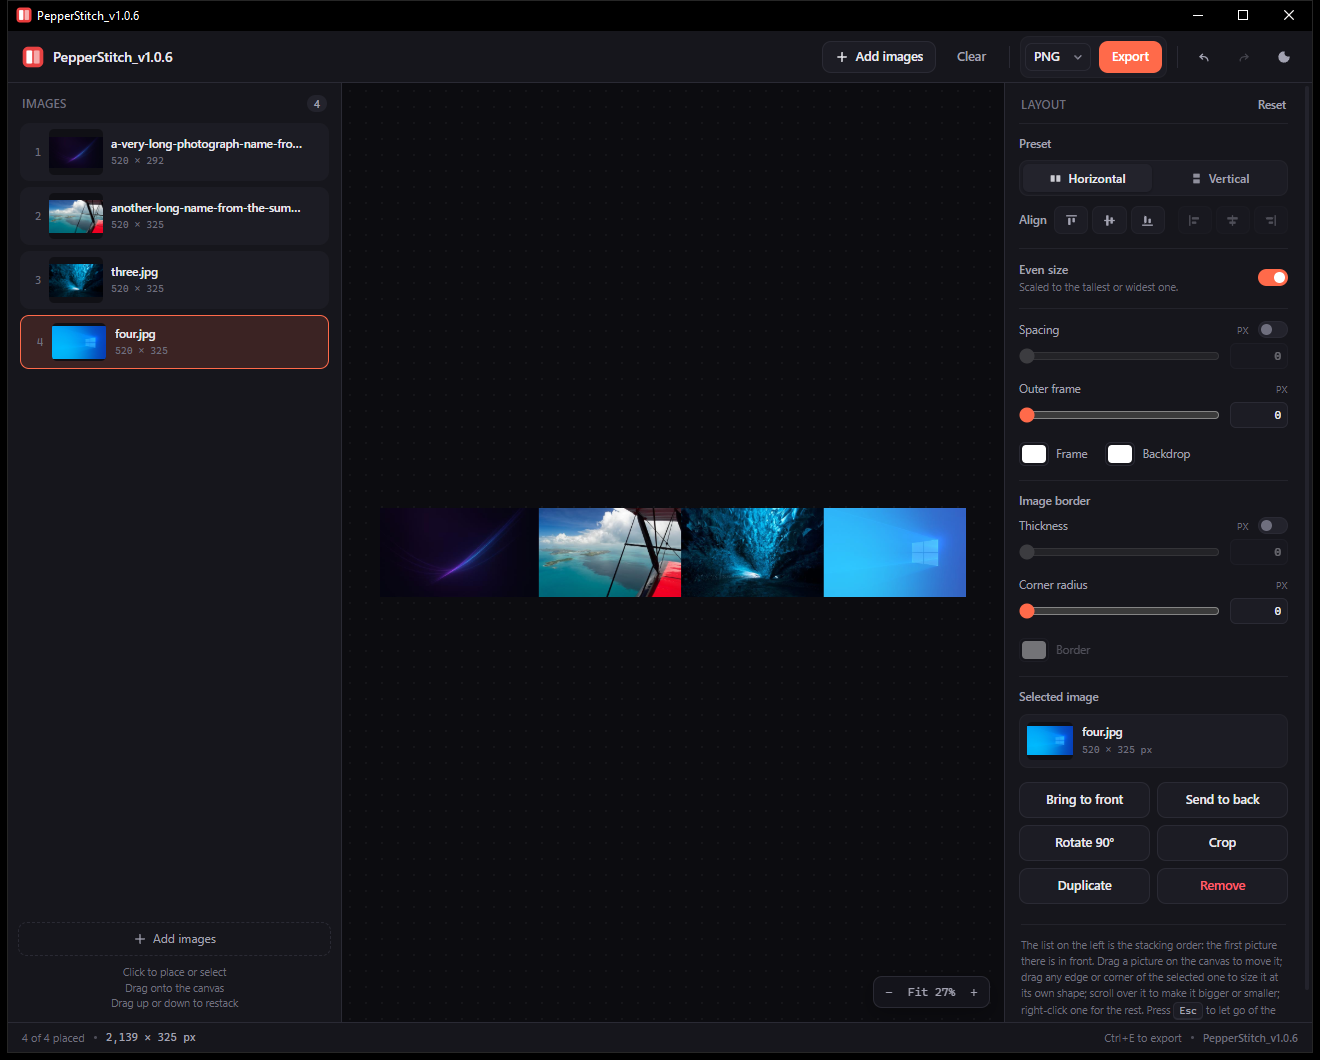
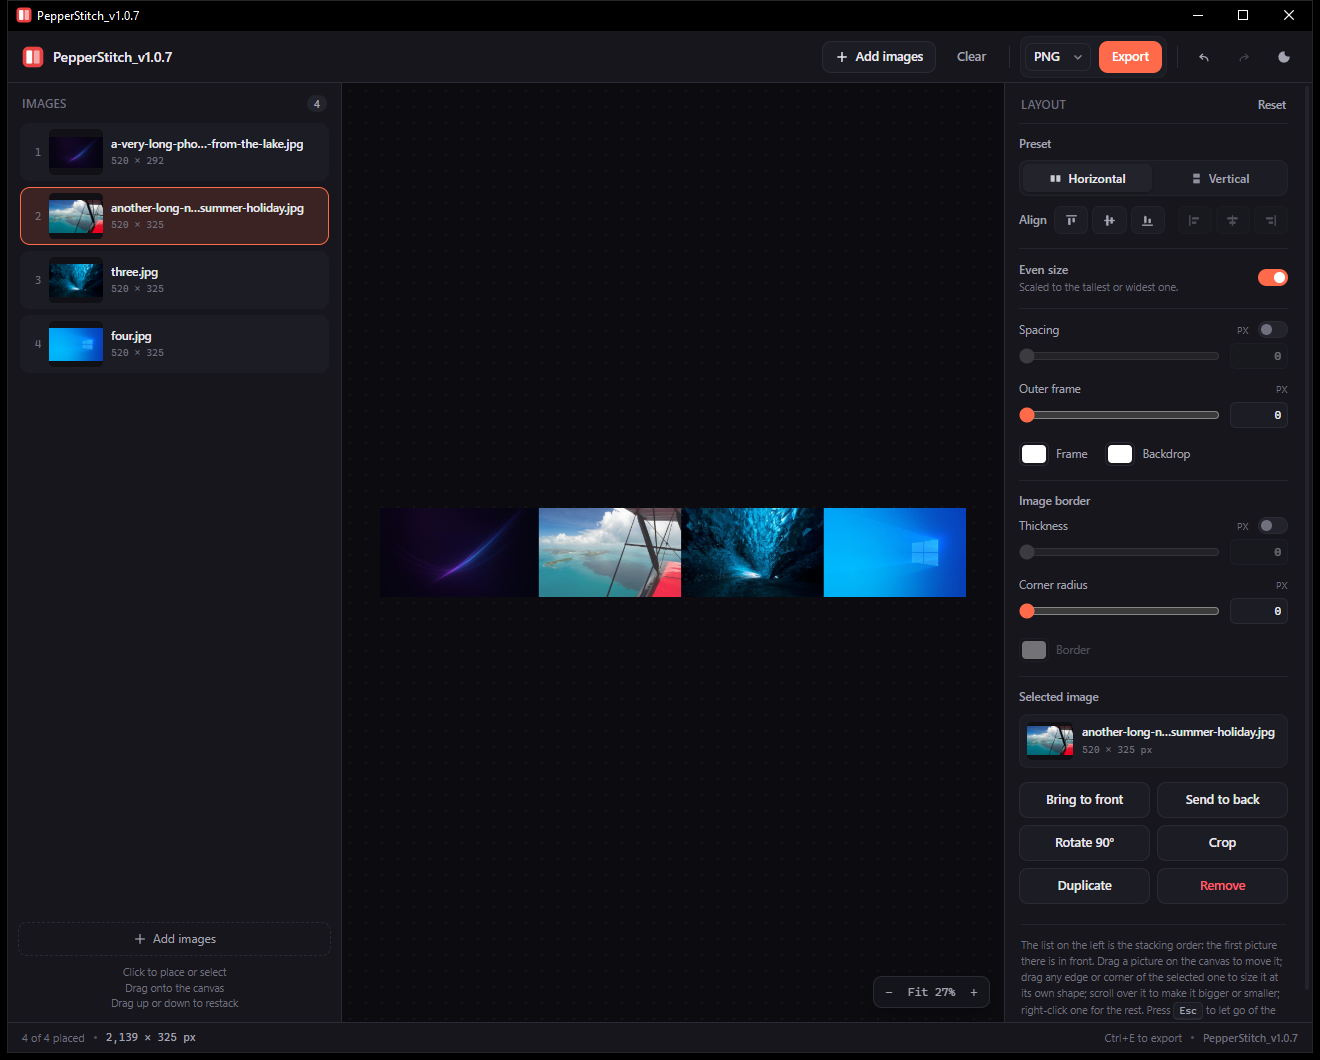
Keep both ends of a long file name
A name too wide for its row was cut at the end, which hid the extension and told
you least about the picture.  middleEllipsis() measures the name with a canvas
against the row's own width and keeps the beginning, the extension and the end -
holiday-2026...-final.png - so the file is still recognisable at a glance.
fitNames() runs at the end of renderStrip() and from applyRailWidth(), so
dragging the splitter re-fits every row; the selected picture's name in the
panel is fitted the same way, and the full name stays in the title.

The panel's row is .selected-card now: the .selected class it used to carry also
matched the highlighted thumbnail, whose padding, gap and image size it then
overrode.

The screenshot is regenerated for 1.0.7.

diff --git a/assets/app.js b/assets/app.js
@@ -1928,7 +1928,7 @@ function renderStrip() {
       copy +
       `<img class="thumb-image" src="${source.url}" alt="" draggable="false">` +
       `<span class="thumb-meta">` +
-        `<span class="thumb-name">${escapeHtml(source.name)}</span>` +
+        `<span class="thumb-name" data-name="${escapeHtml(source.name)}">${escapeHtml(source.name)}</span>` +
         `<span class="thumb-size">${source.width} × ${source.height}</span>` +
       `</span>` +
       `<button class="thumb-remove" type="button" title="Remove from the list"` +
@@ -1959,8 +1959,52 @@ function renderStrip() {
     els.strip.append(item);
   });
 
-  // The rows are new, so the highlight has to be put back on them.
+  // The rows are new, so the names have to be fitted to them again and the
+  // highlight put back on them.
+  fitNames();
   updateStripSelection();
+}
+
+// A name too long for its row keeps its beginning and its end and loses the
+// middle: `holiday-2026…-final.png` still says which picture it is and what kind
+// of file it is, where cutting the end would hide the extension.  The width is
+// the row's, so the same name is re-fitted when the rail is dragged or the
+// window changes size.
+const nameMeasure = document.createElement('canvas').getContext('2d');
+
+function middleEllipsis(text, width, style) {
+  nameMeasure.font = `${style.fontWeight} ${style.fontSize} ${style.fontFamily}`;
+  if (nameMeasure.measureText(text).width <= width) return text;
+
+  // The extension stays whole: it is the part that says what the file is.
+  const dot = text.lastIndexOf('.');
+  const keepsExtension = dot > 0 && text.length - dot <= 10;
+  const head = keepsExtension ? text.slice(0, dot) : text;
+  const tail = keepsExtension ? text.slice(dot) : '';
+
+  for (let keep = head.length - 1; keep > 0; keep -= 1) {
+    const left = Math.ceil(keep / 2);
+    const right = keep - left;
+    const candidate = head.slice(0, left) + '…' + head.slice(head.length - right) + tail;
+    if (nameMeasure.measureText(candidate).width <= width) return candidate;
+  }
+
+  // Too narrow even for the extension: one mark is all that fits.
+  const shortest = '…' + tail;
+  return nameMeasure.measureText(shortest).width <= width ? shortest : '…';
+}
+
+function fitName(element) {
+  const full = element.dataset.name;
+  const width = element.clientWidth;
+  if (!full || !width) return;
+  const fitted = middleEllipsis(full, width, getComputedStyle(element));
+  if (element.textContent !== fitted) element.textContent = fitted;
+}
+
+function fitNames() {
+  for (const element of els.strip.querySelectorAll('.thumb-name')) fitName(element);
+  fitName(els.selectedName);
 }
 
 // The picture chosen on the canvas lights its row in the list, so the rail and
@@ -2015,6 +2059,10 @@ function applyRailWidth(width, { persist = false } = {}) {
 
   els.railResize.setAttribute('aria-valuenow', String(next));
   els.railResize.setAttribute('aria-valuemax', String(Math.round(railWidthMax())));
+
+  // The names are as wide as the row they sit in, so a wider list may show
+  // more of them and a narrower one less.
+  fitNames();
 
   if (persist) saveSettingsSoon();
   return next;
@@ -2379,9 +2427,11 @@ function updateSelectionPanel() {
   if (!item || !source) return;
 
   els.selectedThumb.src = source.url;
+  els.selectedName.dataset.name = source.name;
   els.selectedName.textContent = source.name;
   els.selectedName.title = `${source.name}\n${formatNumber(source.width)} × ${formatNumber(source.height)} px`;
   els.selectedSize.textContent = `${formatNumber(item.w)} × ${formatNumber(item.h)} px`;
+  fitName(els.selectedName);
 }
 
 // ---------------------------------------------------------------------------

diff --git a/assets/index.html b/assets/index.html
@@ -271,7 +271,7 @@
 
       <section class="group" id="selectionGroup" hidden>
         <label class="group-label">Selected image</label>
-        <div class="selected">
+        <div class="selected-card">
           <img id="selectedThumb" alt="">
           <div class="selected-meta">
             <span id="selectedName" class="selected-name"></span>

diff --git a/assets/style.css b/assets/style.css
@@ -914,7 +914,7 @@ kbd {
   cursor: pointer;
 }
 
-.selected {
+.selected-card {
   display: flex;
   align-items: center;
   gap: 9px;
@@ -923,7 +923,7 @@ kbd {
   background: var(--surface-2);
   border: 1px solid var(--line-soft);
 }
-.selected img {
+.selected-card img {
   width: 46px;
   height: 38px;
   object-fit: contain;

diff --git a/AGENTS.md b/AGENTS.md
@@ -392,6 +392,14 @@ undo moves pictures and never the furniture. `applyRailWidth()` clamps to
 width by 16 px (32 with <kbd>Shift</kbd>), Home and End go to the two ends, and
 double-clicking the edge resets it to 194.
 
+A name that still does not fit is cut in the middle rather than at the end:
+`middleEllipsis()` measures with a canvas against the row's own width and keeps
+the beginning, the extension and the end (`holiday-2026…-final.png`), because
+the extension is the part that says what kind of file it is. `fitNames()` runs
+at the end of `renderStrip()` and from `applyRailWidth()`, so a wider list shows
+more of a name and a narrower one less; the panel's name is fitted the same way.
+The full name stays in the row's `title`, and in the panel's.
+
 ## The name and the icon
 
 `AppDisplayName()` in `main.cpp` is the versioned name (`PepperStitch_v<version>`):

diff --git a/README.md b/README.md
@@ -35,7 +35,9 @@ editor.
   lights its row in the list, so the two always name the same one. The × on a
   thumbnail drops the picture from the library and takes it off the canvas with
   it. A long file name has room to be read: drag the list's right edge to make
-  it wider, and double-click that edge to put it back.
+  it wider, and double-click that edge to put it back. A name that still does
+  not fit keeps its beginning and its end — `holiday-2026…-final.png` — so the
+  extension stays visible.
 - **Arrange, then free.** The two presets are actions: Horizontal and Vertical
   pack the pictures once, in the order they stand in the library — so putting the
   list in a different order and pressing a preset re-packs the row or column to
